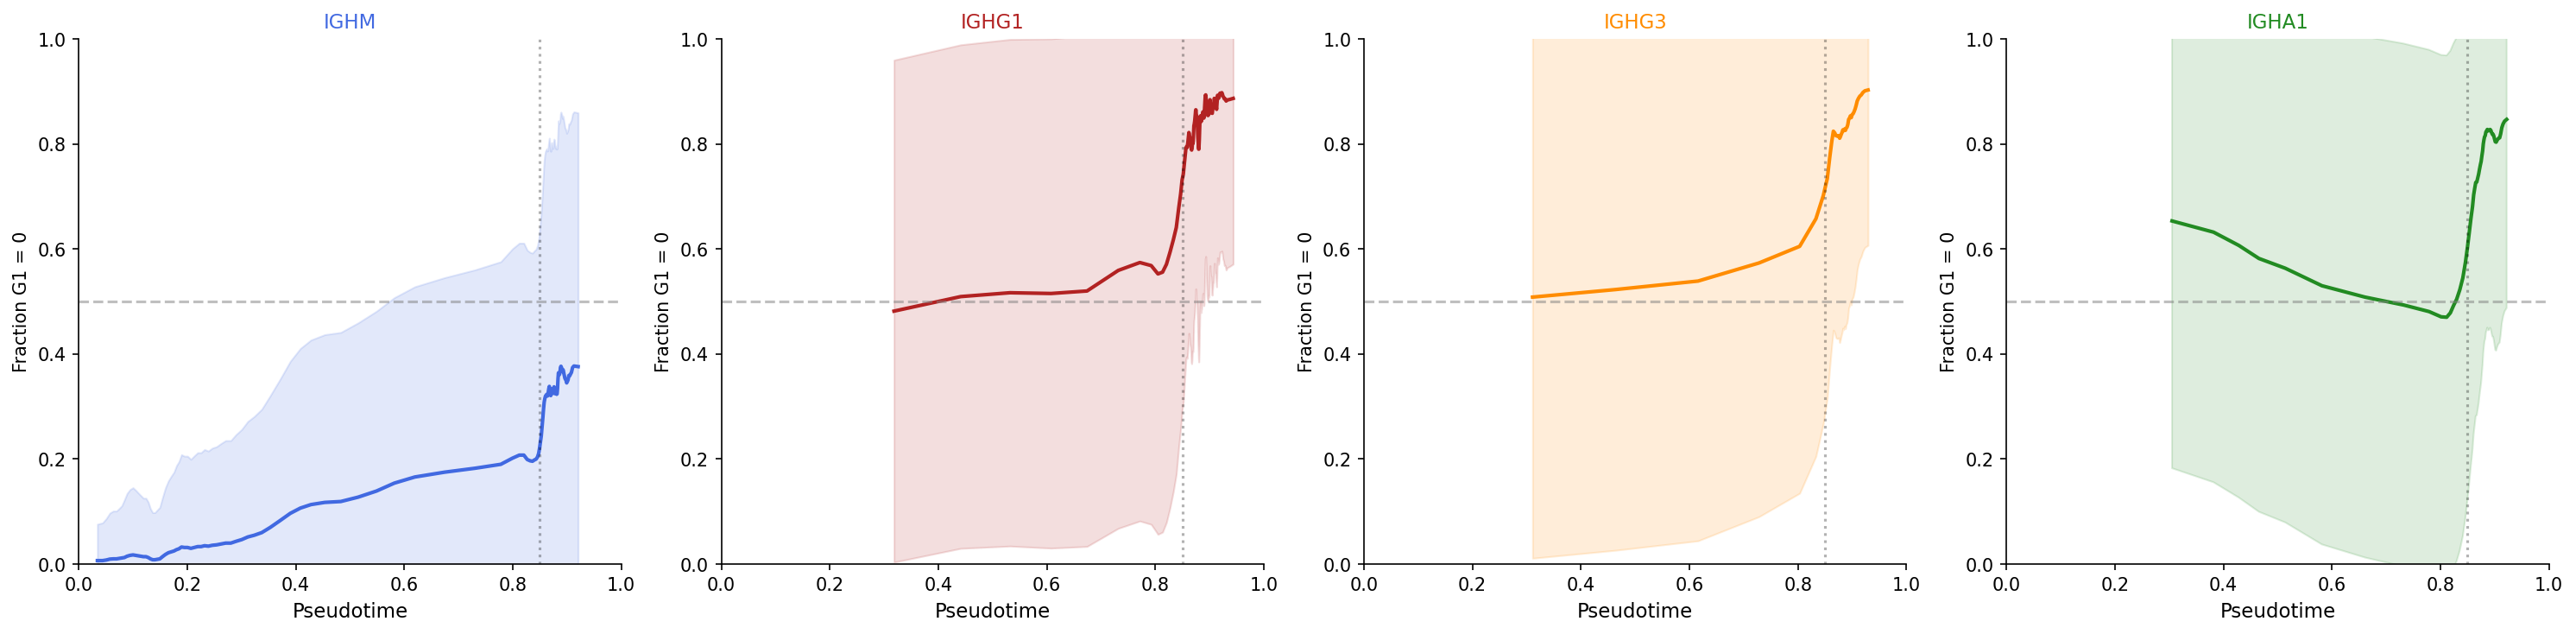
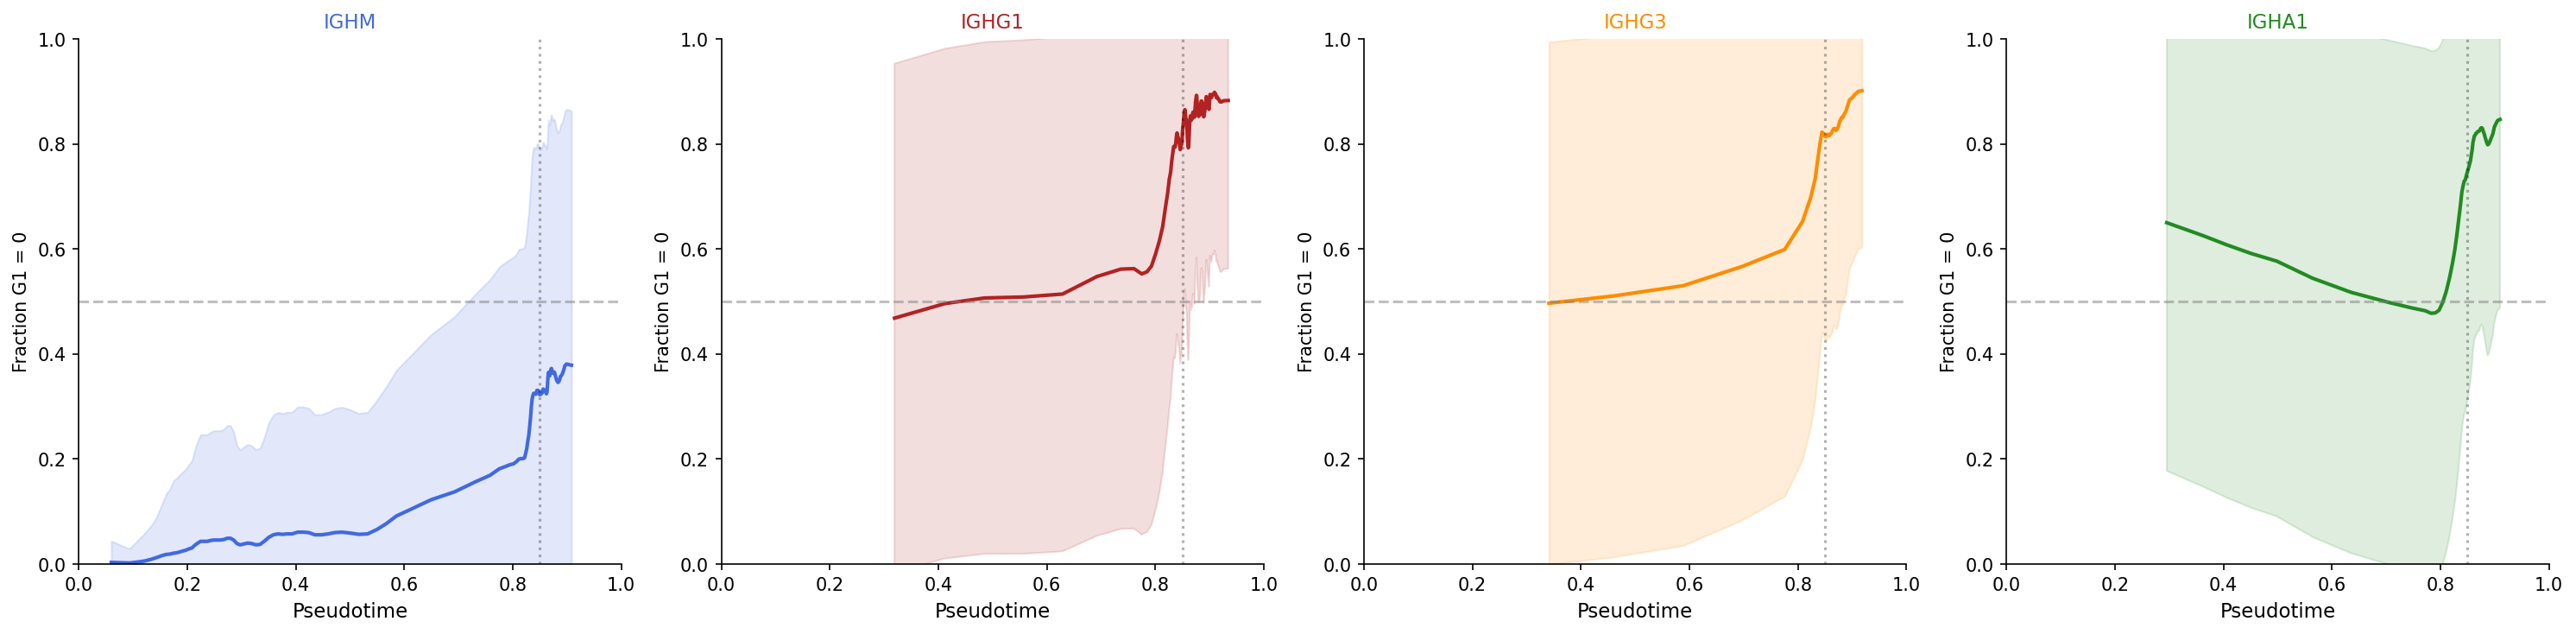
Add biological findings: IGH APA switching, CP1/CP2 changepoints, TENT5C co-regulation analysis

diff --git a/README.md b/README.md
@@ -10,7 +10,6 @@ It recovers hidden biological signals—such as **Alternative Polyadenylation (A
 
 ---
 
-
 ## Concept
 
 Standard scRNA-seq pipelines collapse transcript isoforms into **gene-level counts**.
@@ -37,72 +36,37 @@ cell_3          50                  1
 
 ---
 
-## Key Biological Findings
-
-### 1. IGHM APA Switching — Progressive Trajectory
-- PUI increases sigmoidally from ~0.38 (naive/activated B cells) to ~0.88 (plasma cells)
-- Sliding window bimodality coefficient: BC = 0.632 (window pt=0.70–0.89), confirming bifurcation signal
-- Two critical points identified per isotype via dG1/dt derivative analysis:
-  - **CP1** (pt~0.857): fastest membrane isoform drop — APA commitment begins
-  - **Terminal** (pt~0.876): dG1/dt returns to ~0 — membrane isoform stabilized at floor
-
-### 2. APA Commitment is Tightly Coupled to Class Switch Recombination
-- AICDA (AID enzyme) peaks at pt~0.40, coinciding with IgA/IgG3 first appearance
-- Unlike IGHM (gradual PUI 0.4→0.9), class-switched isotypes (IGHG1, IGHG3, IGHA1) emerge with already-high PUI (~0.8–0.85) immediately following the AICDA expression window
-- CSR is tightly coupled with rapid APA commitment to secretory program — class-switched cells do not repeat the membrane-probing phase
-- At the CP1→Terminal commitment window: IGHM secreted↓, IgG secreted↑, IGKC (kappa light chain) surges — coordinated antibody assembly during terminal commitment
-- Membrane isoform counts decline synchronously across all four isotypes — active downregulation, not passive dilution
-
-### 3. Critical Transition Point at Pseudotime ~0.858
-- Derivative analysis identifies membrane isoform drop at pt = 0.850–0.865 across all isotypes (range = 0.015)
-- G1=0 fraction shows sigmoid jump from ~5% to ~80% at this point
-- GEX DE at critical point: **upregulated** — SSR4, FKBP11, SPCS2/3, CD38, XBP1 (ER secretory program); **downregulated** — MS4A1, PAX5, HLA-DRA (B cell identity)
-- Bootstrap-stable genes (100 resamples): 71 up, 518 down
-
-### 4. Waddington Landscape Validation
-Two distinct APA regulatory programs at terminal commitment:
-
-| Pattern | Genes | Biology |
-|---------|-------|---------|
-| Converge ↓ | CD59, TMBIM6, IGFLR1 | Terminal cells converge to dominant isoform |
-| Diversify ↑ | FKBP11, TXNIP | ER secretory genes maintain isoform diversity |
-| Stable → | GAPDH, B2M | Constitutive housekeeping (negative controls) |
-
-### 5. APA is Cell-Autonomous (GNN Analysis)
-- MLP (no graph): R²=0.981 for TMBIM6 entropy prediction
-- GCN (GEX-based graph): R²=0.368
-- GCN (APA-based graph): R²=0.920
-- Conclusion: APA regulation is primarily cell-autonomous; GEX-based neighborhood adds noise
-
-### 6. scGPT Foundation Model Validation — Reveals What BBKNN Hides
-- 4000 cells (stratified across 4 samples) embedded with scGPT blood pre-trained model
-- PAGA trajectory from scGPT embedding recapitulates IGHM PUI gradient (PUI 0.4→0.9) without any isoform supervision ✅
-- DPT pseudotime correlates with IGHM PUI gradient ✅
-- **scGPT vs BBKNN**: conventional batch correction (BBKNN) merges Day 7 and Day 13 activated B cells, creating artifactual trajectory branches. scGPT (no batch correction) correctly separates them:
-  - Cluster 7: Day 7 early activated B cells (ACTB high, PUI~0.39) — true root
-  - Cluster 3: Day 13 non-differentiating B cells (HLA-DRA, MS4A1 high) — dead end, isolated in PAGA
-- **IL21-dependent differentiation block**: exp97 (No IL21) cells plateau at PUI~0.79; IL21-stimulated cells reach PUI >0.9 — IL21 is required for terminal APA commitment
-- XIST-high cluster (cluster 9) identifies female donor cells
-
-### 7. APA Delta Summary — 87 Genes, 4 Patterns
-Systematic quantification of APA change across B cell differentiation:
-- **32 converge genes**: TMBIM6 (Δ=-0.454), CD59 (Δ=-0.311), IGFLR1, PTMA, MS4A1...
-- **12 peak genes**: SSR3, SPCS2, LDHA, HNRNPC (peak at Late, then partial return)
-- **20 diversify genes**: TXNIP (Δ=+0.179), FKBP11 (Δ=+0.182), PABPN1...
-- **23 stable genes**: GAPDH, B2M, NDUFA4 (negative controls, Δ≈0)
-
----
-
 ## Why IsoDecipher?
+
+### Comparison with existing tools
+
+| Feature | scAPA | Sierra | MAAPER | IsoDecipher |
+|---------|-------|--------|--------|-------------|
+| Reference | De novo | De novo | GTF | GTF |
+| Feature names | Coordinates | Coordinates | Gene-based | Gene+Group |
+| Noise filter | ❌ | ❌ | Partial | ✅ |
+| Biotype filter | ❌ | ❌ | ❌ | ✅ |
+| NMD option | ❌ | ❌ | ❌ | ✅ |
+| Scanpy ready | ❌ | ❌ | ❌ | ✅ |
+| IG isoform logic | ❌ | ❌ | ❌ | ✅ |
+| Metric selection | Manual | Manual | Manual | Adaptive |
+
+IsoDecipher is the only tool that combines GTF-anchored noise suppression, biotype-aware filtering, biologically interpretable feature naming (gene+group), and adaptive metric selection into a scanpy-compatible output — enabling isoform-resolved single-cell analysis without post-processing.
 
 ### 1. Biologically Anchored Noise Suppression
 Uses **GTF-derived polyA groups** to filter intronic noise, retain introns, and NMD transcripts. Reduces zero-UTR features from ~47% to under 6%.
 
 ### 2. Annotation Quality Filter
-- Skips retained introns, NMD, CDS-not-defined transcripts
-- Removes zero-UTR singleton groups
-- Always preserves dominant group
-
+- Skips retained introns and NMD transcripts (default; use --include-nmd to retain NMD)
+- Skips transcripts with no CDS annotation
+- Removes zero-UTR singleton groups: transcripts where the polyA site 
+  immediately follows the stop codon (zero 3' UTR length), leaving no 
+  other group for comparison — PUI/Entropy cannot be computed
+- Always preserves the dominant group per gene, even if all other 
+  groups are filtered. Genes with only one remaining group are 
+  retained in the panel as raw count features but excluded from 
+  PUI/Entropy analysis (reported as "no analysis" in panel summary).
+  
 ### 3. Zero-Ambiguity Strand-Aware Indexing
 Group 0 always = proximal polyA site, regardless of genomic strand.
 
@@ -110,9 +74,8 @@ Group 0 always = proximal polyA site, regardless of genomic strand.
 
 | Groups | Method | Description |
 |--------|--------|-------------|
-| 2 | **PUI** | log2(G0+1)/(log2(G0+1)+log2(G1+1)) — directional, interpretable |
+| 2 | **PUI** | log2(G0+1)/(log2(G0+1)+log2(G1+1)) — directional, interpretable. Log-normalization is essential for high-dynamic-range genes such as immunoglobulins, where raw G0/G1 ratios can span several orders of magnitude at terminal differentiation. |
 | 3+ | **Entropy** | Shannon entropy of polyA site distribution — order-free, robust |
-
 
 **NMD transcript handling**: By default, NMD (nonsense-mediated decay) transcripts are excluded. Use `--include-nmd` to include AS-NMD isoforms, which adds +271 features and promotes 14 genes from no-analysis to PUI/Entropy. AS-NMD represents a biologically meaningful post-transcriptional regulatory mechanism particularly relevant for RNA-binding proteins and splicing factors.
 
@@ -129,14 +92,33 @@ PUI/Entropy features achieve **64% accuracy** (vs 77% for full GEX) in predictin
 
 ---
 
+## Key Biological Findings
+
+### Figure 1: IgH isoform dynamics along B cell differentiation
+![Figure 1](results/figures/IGH_DualAxis_Switch.png)
+IsoDecipher recovers membrane (G1) and secreted (G0) isoforms of immunoglobulin heavy chain transcripts across B cell differentiation for four isotypes (IGHM, IGHG1, IGHG3, IGHA1). The membrane-to-secreted switch arises from APA: G1 utilizes a distal polyadenylation site retaining transmembrane domain exons; G0 uses a proximal site enabling antibody secretion. Cell Ranger total counts increase monotonically across pseudotime for all isotypes, providing no resolution of this transition — IsoDecipher recovers the directionality directly from 3′ BAM files. The G1 decline is a genuine per-cell signal, not a cell-density artifact (minimum n=50 isotype-matched cells per window).
+
+### Figure 2: Quantitative mapping of IgH membrane isoform dynamics
+![Figure 2](results/figures/G1_piecewise_fit.png)
+
+Piecewise linear modeling identifies two conserved changepoints per isotype: G1 downregulation initiates at CP1 (~0.72–0.77) and completes at CP2 (~0.83–0.86), defining a narrow ~0.09–0.13 pseudotime execution window consistent across all isotypes regardless of class-switch identity — suggesting membrane isoform downregulation is triggered at a shared B cell commitment checkpoint. 
+
+Bimodality analysis at the switching window confirms that G1-high and G1-low cells genuinely coexist at this transition (BC > 0.555 across all isotypes: IGHM: 0.624, IGHG1: 0.564, IGHG3: 0.670, IGHA1: 0.565), consistent with a bistable commitment event rather than a continuous gradient. Waddington landscape analysis further confirms progressive energy landscape restructuring across stages — the G1-high attractor destabilizes at CP1 and the G1-low state becomes the sole deep energy well at terminal differentiation, reflecting irreversible plasma cell commitment.
+
+### Figure 3: TENT5C secreted isoform co-induction with IgH G0
+![Figure 3](results/figures/TENT5C_G0_horizontal.png)
+
+DEG analysis on IsoDecipher-defined Before/Switching/Terminal stages identifies TENT5C — a cytoplasmic poly(A) polymerase that stabilizes immunoglobulin heavy chain mRNAs by extending their poly(A) tails — as co-upregulated with the APA switch. By leveraging BCR downregulation as a high-resolution molecular ruler for cell state, IsoDecipher captures a critical commitment transition that total gene count pipelines overlook — and critically, enables downstream trajectory analysis that pinpoints which isoform event TENT5C tracks. Cross-correlation of smoothed pseudotime trajectories confirms TENT5C induction is temporally aligned with G0 upregulation at lag=0 across all class-switched isotypes (IGHG1, IGHG3, IGHA1), not with G1 decline — identifying it as the most directly co-regulated gene with the secreted isoform switch rather than a general plasma cell marker.
+
+Notably, TENT5C (FAM46C) is recurrently mutated in multiple myeloma (~13% of cases) — its specific coupling to the secreted isoform switch during normal plasma cell commitment provides a mechanistic rationale for why its loss dysregulates antibody secretion in malignant plasma cells. Beyond myeloma, pathogenic plasma cells in autoimmune diseases such as SLE and rheumatoid arthritis arise from aberrant passage through this same commitment checkpoint; TENT5C's co-induction with the secreted isoform switch identifies it as a candidate target for selectively disrupting autoreactive plasma cell commitment, complementing terminal plasma cell targeting via BCMA/TNFRSF17 — also identified in the IsoDecipher-defined terminal DEG analysis.
+---
+
 ## Installation
 
 ```bash
 mamba create -n iso_decipher python=3.10 -y
 mamba activate iso_decipher
 
-pip install gffutils pysam pandas numpy scanpy anndata \
-            matplotlib seaborn scipy scikit-learn shap
 ```
 
 For pipeline orchestration:
@@ -236,37 +218,17 @@ GTF annotation + gene panel (391 genes)
             ▼
   PUI / Entropy Analysis
   ├── APA Trajectory (pseudotime)
-  ├── Bifurcation Detection (BC > 0.555)
-  ├── Critical Transition Point (derivative)
-  ├── Waddington Entropy Landscape
-  ├── SHAP Feature Importance
-  ├── GNN Cell-Autonomy Analysis
-  └── scGPT Foundation Model Validation
+  ├── Piecewise Linear Changepoint Detection
+  ├── Waddington Landscape
+  ├── Isoform-defined DEG staging
+  └── TENT5C co-regulation analysis
 ```
 
----
-
-## Figure Roadmap (Current)
-
-| Figure | Content | Status |
-|--------|---------|--------|
-| Figure 1 | Tool overview, IGHM example | ⏳ |
-| Figure 2 | IGH APA trajectory + membrane drop | ✅ |
-| Figure 3 | Critical transition point (BC, derivative, G1=0 fraction) | ✅ |
-| Figure 4 | GEX DE at critical point (volcano, GSEA, TF switching) | ✅ |
-| Figure 5 | Waddington entropy + SHAP + model comparison | ✅ |
-| Figure 6 | JCHAIN isotype-specific APA | ✅ |
-| Figure 7 | APA delta summary (87 genes, 4 patterns) | ✅ |
-| Figure 8 | scGPT validation (UMAP, PAGA, DPT) | ✅ |
-| Supp | PBMC validation, cancer dataset | ⏳ |
 
 ---
 
-## Future Directions
-
-Develop an **isoform-aware foundation model** trained on IsoDecipher-quantified APA profiles across normal differentiation trajectories. Such a model could identify oncogenic APA deviations by comparing tumor cell isoform landscapes to the normal differentiation reference established here.
-
-Extended approach: **BAM-level tokenization** incorporating polyA signal sequence context (PAS: AATAAA and variants, AU-rich elements, ±200bp window) to detect mutation-driven APA changes and novel unannotated polyA sites in tumor samples.
+## Future Directions 
+**[IsoDecipher-GPT](https://github.com/rene2718/isodecipher-gpt)** *(in development)* — a hierarchical BAM-level foundation model that learns APA regulatory grammar directly from raw 3' reads, bypassing GTF annotation entirely. Unlike scGPT or DNABERT, which are bound to fixed gene vocabularies or static DNA sequence, IsoDecipher-GPT tokenizes reads at the polyA signal level (PAS: AATAAA and variants) with single-cell resolution via CB/UB tags — enabling de novo discovery of mutation-driven APA shifts and novel cleavage sites that count-matrix pipelines are structurally incapable of observing.
 
 ---
 
@@ -274,16 +236,15 @@ Extended approach: **BAM-level tokenization** incorporating polyA signal sequenc
 
 IsoDecipher ships with a curated panel of **391 genes** across 22 biological categories, designed for comprehensive oncology-immunology studies including PBMC, B cell differentiation, and cancer datasets (prostate, lung, breast).
 
-### Core Biology
-- Housekeeping controls (ACTB, GAPDH, B2M, UBC, PPIB)
+
+### Immunology
 - Immunoglobulins (IGHM, IGHG1-4, IGHA1-2, IGHE)
 - Plasma cell & secretory pathway (XBP1, MZB1, HSPA5, FKBP11, SSR3, SPCS2...)
 - Plasma cell transcription factors (IRF4, PRDM1, PAX5, BCL6...)
-- APA & RNA processing machinery (CSTF1-3, NUDT21, CPSF1-4, SF3B1, U2AF1, RBM10...)
 - BCR signaling & surface markers (CD79A/B, CD19, CD22, BTK, SYK...)
 - T cell markers (CD4, CD8A/B, FOXP3, TOX...)
 - Immune checkpoints (CD274/PD-L1, PDCD1, CTLA4, LAG3, TIGIT...)
-- SEC-seq discovered markers (CD59, NEAT1, SDC1, TXNIP, MIF...)
+- SEC-seq discovered markers (CD59, NEAT1, TXNIP, MIF...)
 
 ### Oncology — Prostate Cancer
 PTEN, AR, RB1, BRCA1, BRCA2, CDK12, PIK3CA, PIK3CB, AKT1, AKT3, MTOR, TSC1, TSC2, STAT5A, STAT5B, JAK1, JAK2, SOCS1, SOCS3, CDK4, CDK6, CCND1, CDKN1B, CDKN2A, ATM, ATR, CHEK2, FOXA1, HOXB13, KLK3, NKX3-1, CXCR4
@@ -309,27 +270,8 @@ ESR1, PGR, ERBB2, PIK3CA, PTEN, AKT1, CDKN1B, GATA3, MAP3K1, MAP2K4, TBX3, RUNX1
 - **Cancer metabolism**: PKM, LDHA, HIF1A, VEGFA
 - **S100 family**: S100A1-16, S100B, S100P, S100Z
 
----
-## Development Status
-
-| Step | Status |
-|------|--------|
-| Panel builder | ✅ Complete |
-| Annotation filter | ✅ Complete |
-| Read assignment | ✅ Complete |
-| Snakemake pipeline | ✅ Complete |
-| Multi-sample integration | ✅ Complete |
-| PUI/Entropy analysis | ✅ Complete |
-| APA trajectory analysis | ✅ Complete |
-| Bifurcation detection | ✅ Complete |
-| Critical transition point | ✅ Complete |
-| Waddington entropy validation | ✅ Complete |
-| APA delta summary (87 genes) | ✅ Complete |
-| SHAP / ML analysis | ✅ Complete |
-| GNN cell-autonomy analysis | ✅ Complete |
-| scGPT foundation model validation | ✅ Complete |
-| PBMC public dataset | ⏳ In progress |
-| Cancer dataset validation | ⏳ Pending |
+- Housekeeping controls (ACTB, GAPDH, B2M, UBC, PPIB)
+- APA & RNA processing machinery (CSTF1-3, NUDT21, CPSF1-4, SF3B1, U2AF1, RBM10...)
 
 ---
 